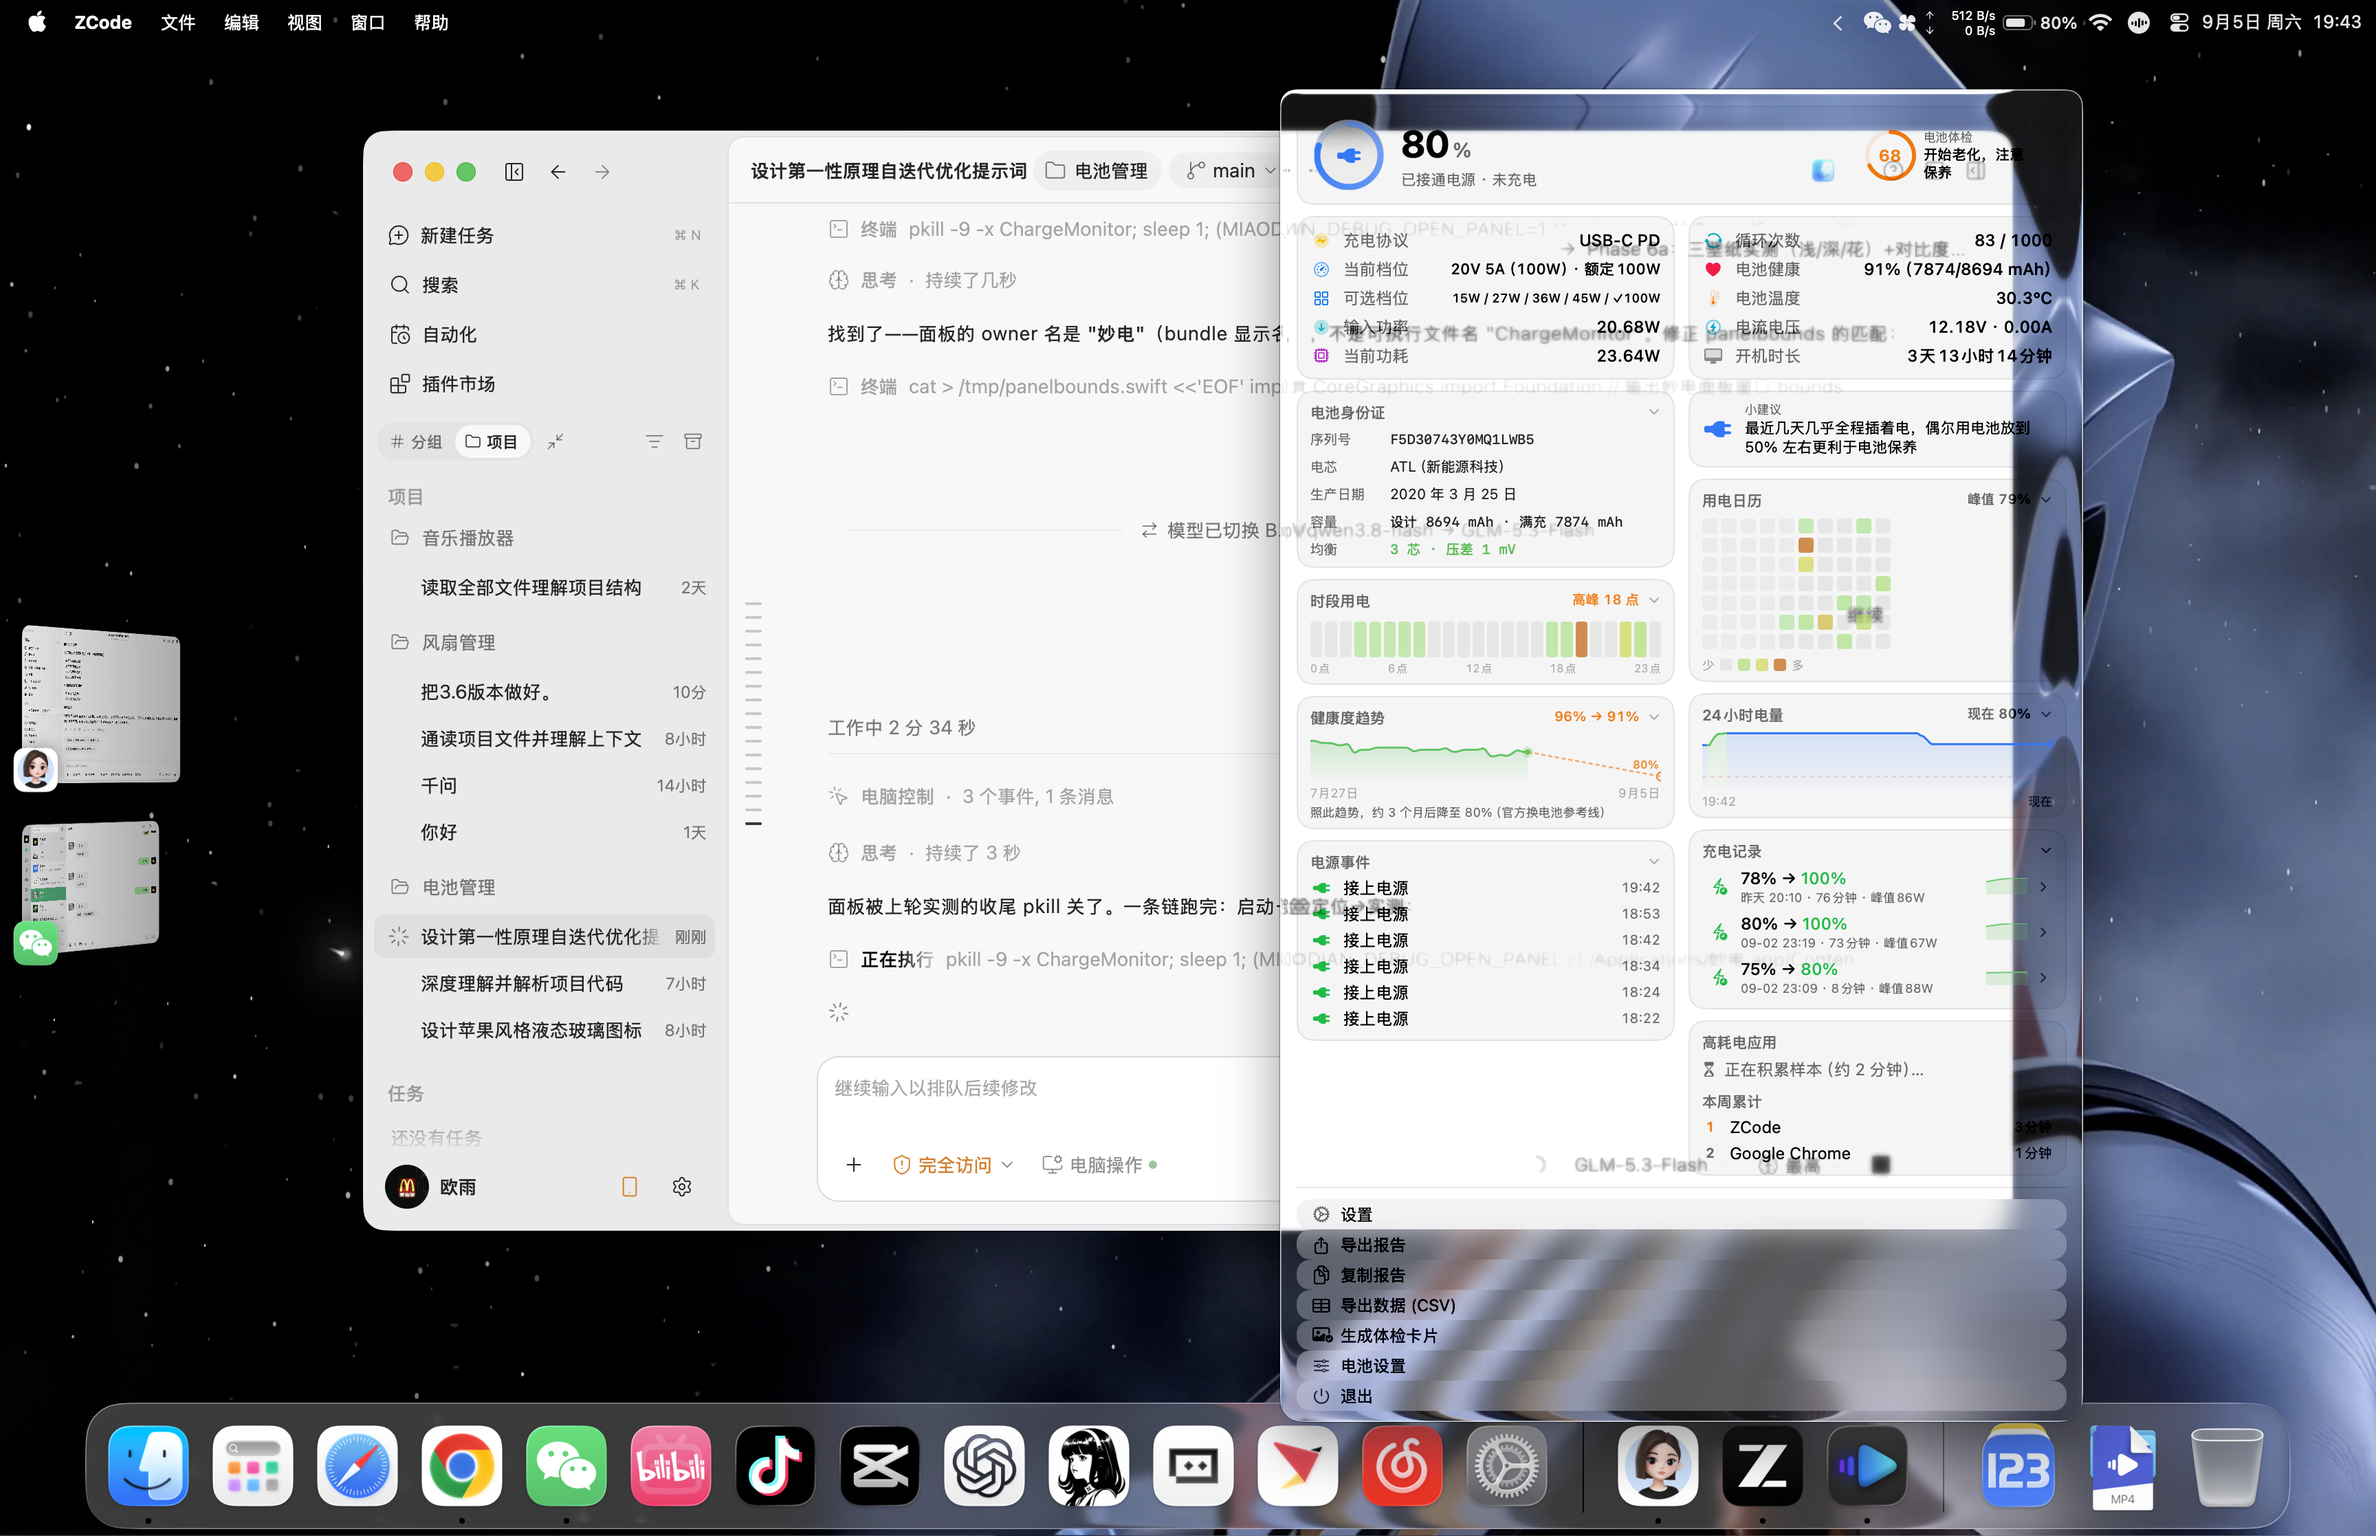
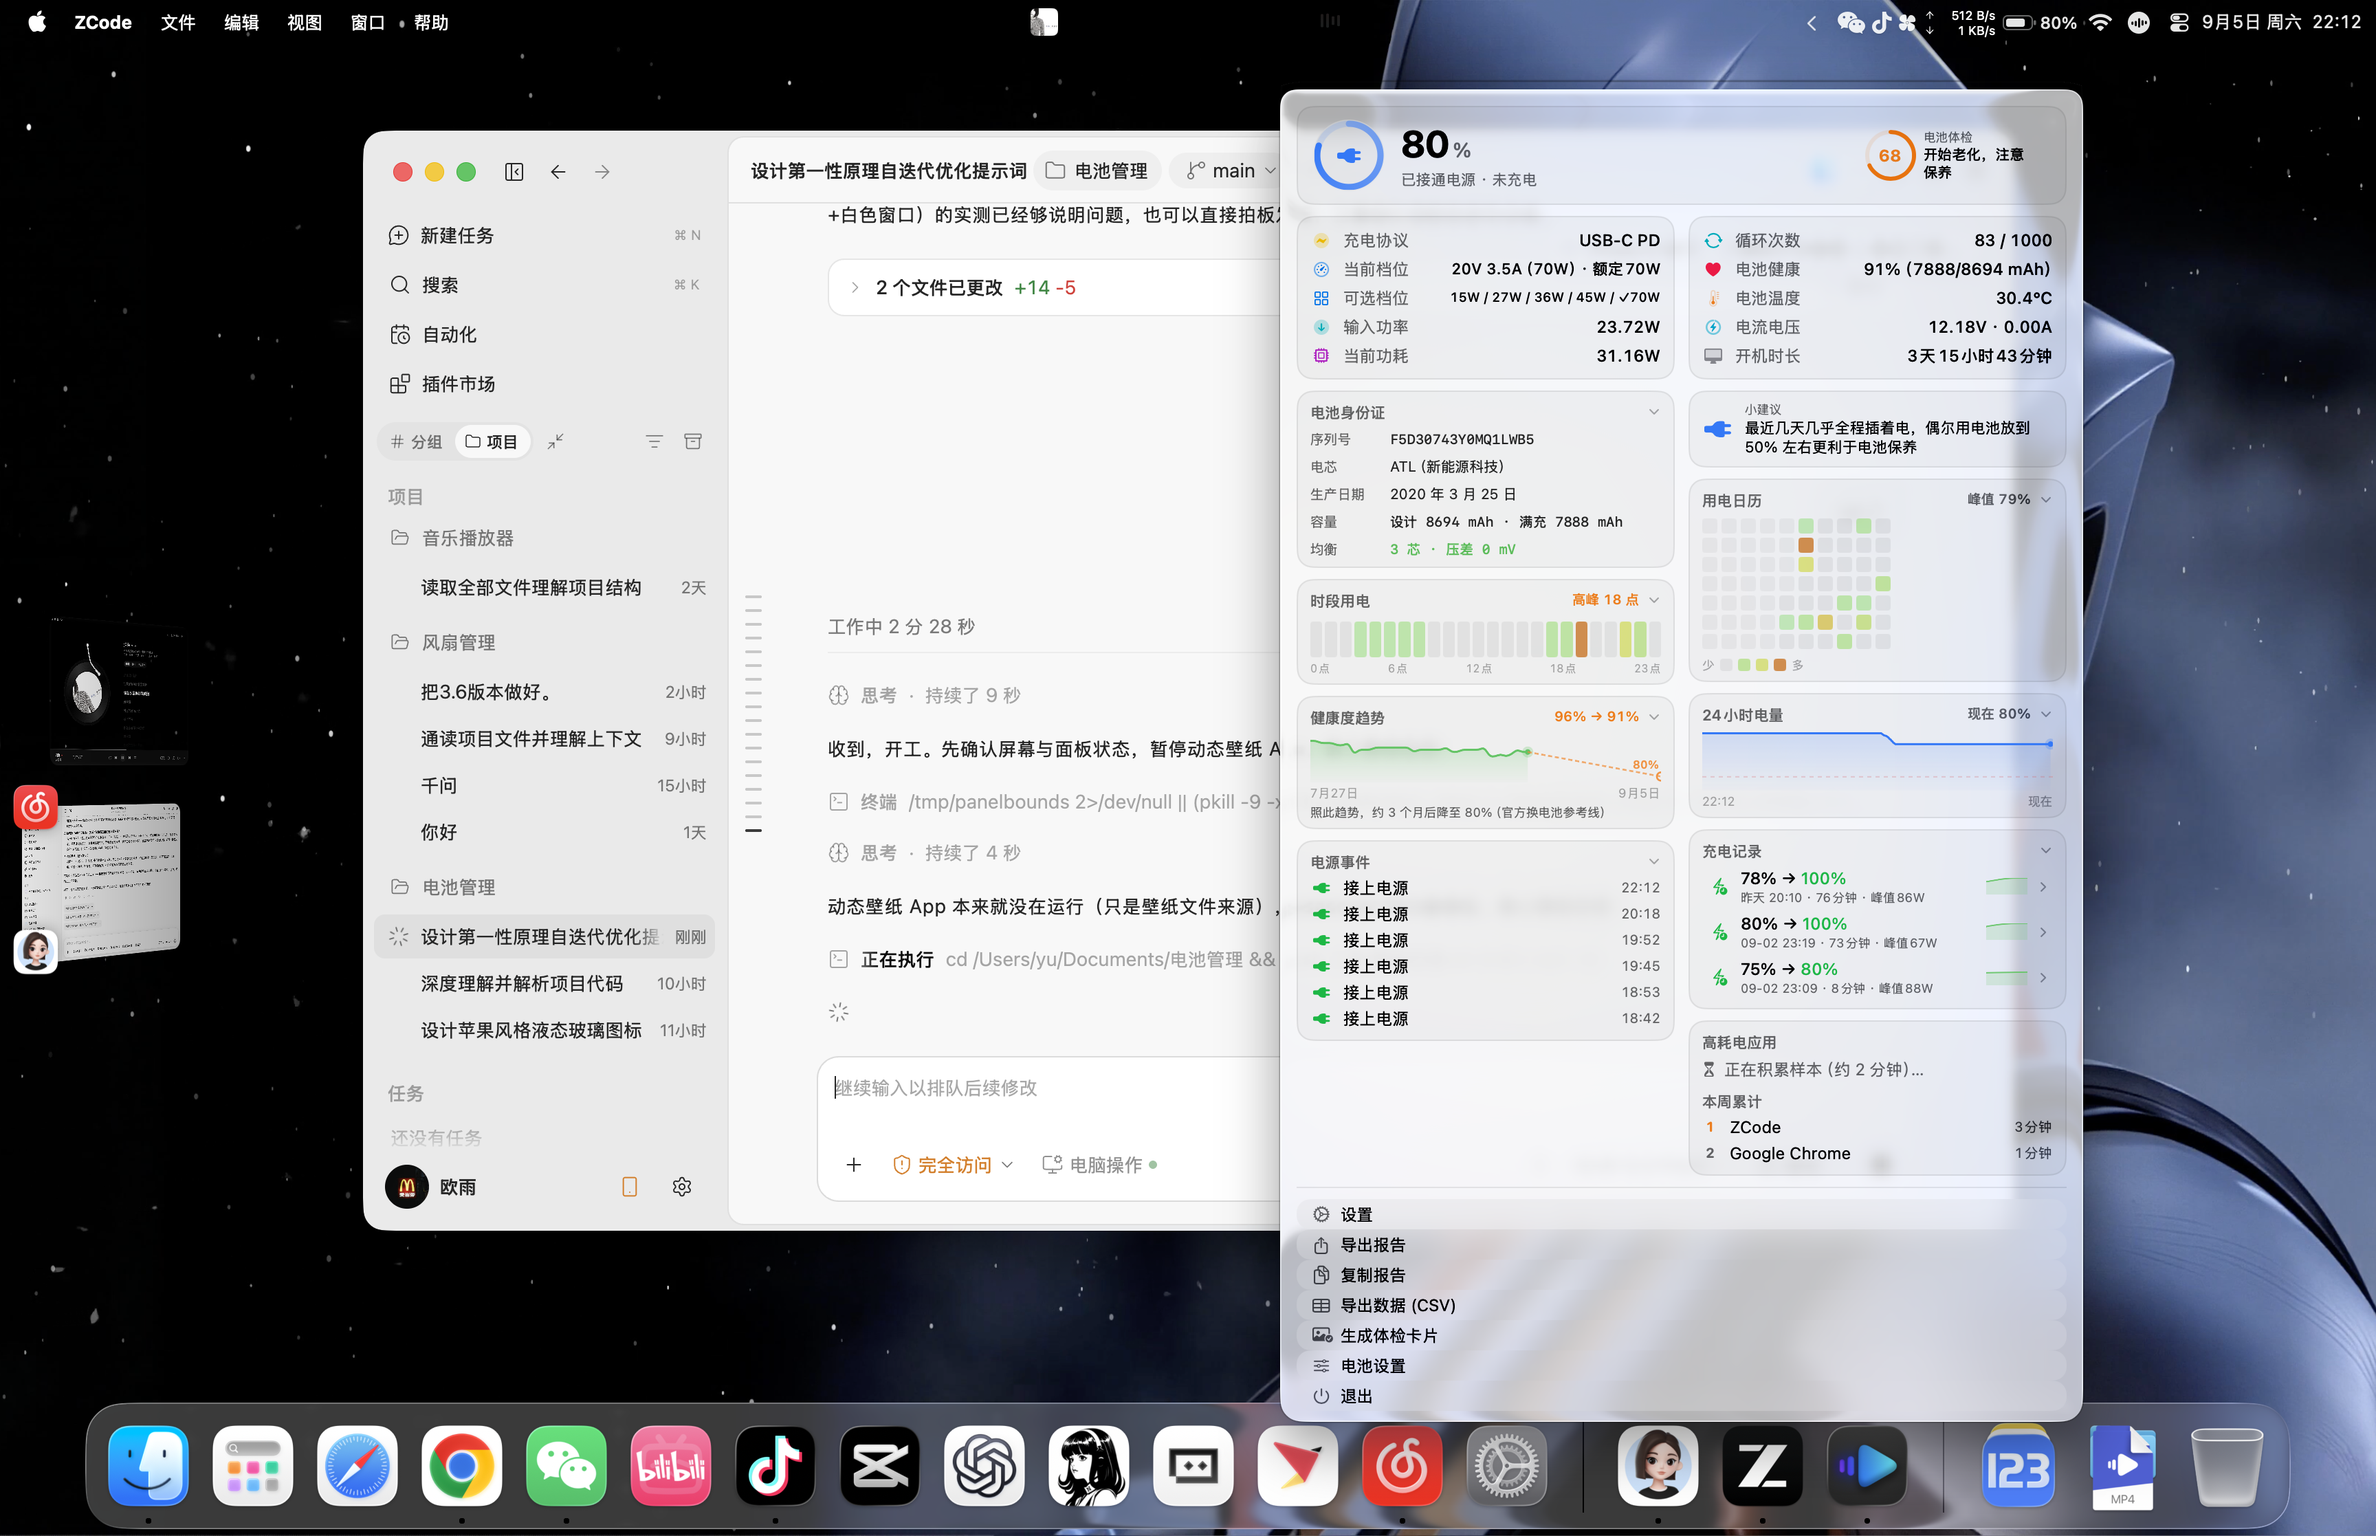
工具:对比度y偏移bug修复(测试图仲裁);报告:读数有效性声明+调试通道加固记录

diff --git a/ChargeMonitor/ChargeMonitor/UI/Components/GlassStyle.swift b/ChargeMonitor/ChargeMonitor/UI/Components/GlassStyle.swift
@@ -11,19 +11,20 @@ enum GlassMetrics {
 }
 
 extension View {
-	/// 面板外壳：26 一整块 regular 玻璃板——材质自带亮度下限，浅色模式下任意壁纸（含深色）
-	/// 面板都保持浅底黑字（实测 clear 玻璃跟随后壁变暗，深色壁纸上黑字对比度 2.5:1 不达 AA；
-	/// 作业书材质映射表即指定 Glass.regular）。15–25 用 regularMaterial 自给背景——
-	/// 宿主 NSPanel 底是全透明的，降级路径必须自己垫底
+	/// 面板外壳：ultraThinMaterial + 窗口底色半透明地板（双路径统一）。
+	/// 实测记录：clear/regular 玻璃、纯 ultraThin 都会跟随壁纸亮度——深色壁纸下面板变暗，
+	/// 浅色模式的黑字对比度跌到 1.7~2.5:1。地板用 windowBackgroundColor（自适应：
+	/// 浅色外观=白、深色外观=黑），保证任意壁纸下文字对比度达标；
+	/// 0.5 浓度下壁纸色彩仍柔和透出，玻璃感由控件/徽章/仪表层的 interactive/tint 玻璃承担
 	@ViewBuilder func panelShell() -> some View {
-		if #available(macOS 26.0, *) {
-			glassEffect(.regular, in: .rect(cornerRadius: GlassMetrics.shellCornerRadius))
-		} else {
-			background(
-				.regularMaterial,
-				in: RoundedRectangle(cornerRadius: GlassMetrics.shellCornerRadius, style: .continuous)
-			)
-		}
+		background(
+			RoundedRectangle(cornerRadius: GlassMetrics.shellCornerRadius, style: .continuous)
+				.fill(.ultraThinMaterial)
+				.overlay(
+					RoundedRectangle(cornerRadius: GlassMetrics.shellCornerRadius, style: .continuous)
+						.fill(Color(nsColor: .windowBackgroundColor).opacity(0.5))
+				)
+		)
 	}
 
 	/// 卡片分区：26 极淡填充+发丝线（内容对比度由外壳玻璃统一柔化，分区本身不再加模糊层）；

diff --git a/工具/对比度测量.swift b/工具/对比度测量.swift
@@ -27,7 +27,7 @@ guard let ctx = CGContext(data: nil, width: w, height: h, bitsPerComponent: 8, b
 	bitmapInfo: CGImageAlphaInfo.premultipliedLast.rawValue) else { exit(1) }
 // 默认左下原点上下文：要让图的第 (x,y) 像素落在位图 (0,0)（位图第0行=图顶行），
 // draw 矩形的左下角 = (-x, h - 图高)——即图的顶行贴位图顶行
-ctx.draw(image, in: CGRect(x: CGFloat(-x), y: CGFloat(h) - CGFloat(image.height), width: CGFloat(image.width), height: CGFloat(image.height)))
+ctx.draw(image, in: CGRect(x: CGFloat(-x), y: CGFloat(h) - CGFloat(image.height) + CGFloat(y), width: CGFloat(image.width), height: CGFloat(image.height)))
 guard let data = ctx.data else { exit(1) }
 let bytes = data.bindMemory(to: UInt8.self, capacity: w * h * 4)
 
